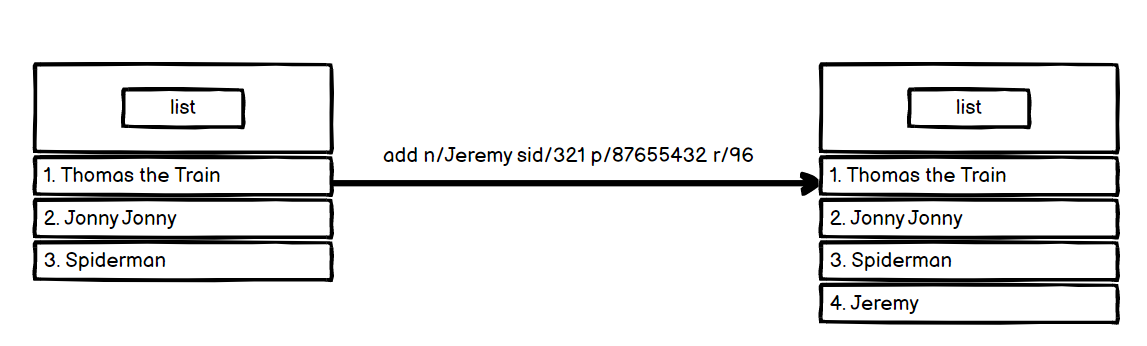
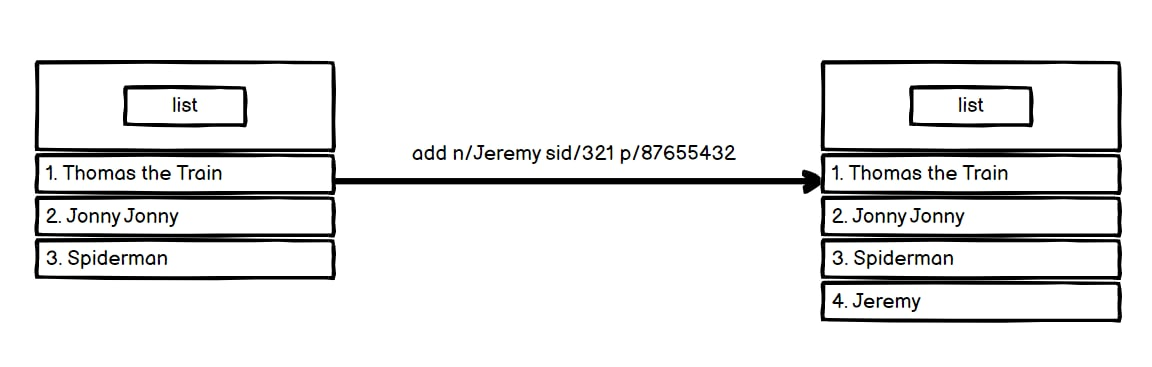
Make formatting changes for overall UG

diff --git a/docs/UserGuide.md b/docs/UserGuide.md
@@ -93,21 +93,24 @@ constraints can be found in the [parameter constraints.](#parameter-constraints-
 
 Adds a new guest or staff and their contact details into PH.
 
-Format: `add n/<NAME> pn/<PASSPORT_NUMBER> [p/<PHONE_NUMBER>] [r/<ROOM_NUMBER>]`/ `add n/<NAME> sid/<STAFF_ID> [p/<PHONE_NUMBER>] [r/<ROOM_NUMBER>]`
+Format:
+<br>Guest: `add n/<NAME> pn/<PASSPORT_NUMBER> [p/<PHONE_NUMBER>] [r/<ROOM_NUMBER>]`
+<br>Staff: `add n/<NAME> sid/<STAFF_ID> [p/<PHONE_NUMBER>]`
 
 Example 1:
-![AddDiagram](images/AddDiagram.png)
+<br>![AddDiagram](images/AddDiagram.png)
 
 * `list` command lists all contact details of people in the address book.
-* `add n/Bing Cheng pn/T0134568D p/99999999 r/69` , adds a new guest, Bing Cheng to the address book and shows the new
+* `add n/Bing Cheng pn/T0134568D p/99999999 r/69` , adds a new guest, Bing Cheng to PH and shows the new
   contact list.
 
 Example 2:
-![StaffAddDiagram](images/StaffAddDiagram.png)
+<br>![StaffAddDiagram](images/StaffAddDiagram.png)
 
 * `list` command lists all contact details of people in the address book.
-* `add n/Jeremy sid/321 p/87655432 r/96` , adds a new staff, Jeremy to the address book and shows the new
+* `add n/Jeremy sid/321 p/87655432` , adds a new staff, Jeremy to PH and shows the new
   contact list.
+
 [Back to Table of Contents](#table-of-contents)
 
 ### Editing fields of guests/staff: `edit`
@@ -123,9 +126,9 @@ Format:
 
 Examples:
 
-* `edit pn/X12345678A p/99999999` locates the guest Bing Cheng and overwrites the phone number field with the new phone
+* `edit pn/X12345678A p/99999999` locates the guest Bing Cheng, by his passport number X12345678A and overwrites the phone number field with the new phone
   number provided.
-* `edit pn/X98765432B r/123` locates the guest Jeremy and overwrites the room number field with the new room number
+* `edit pn/X98765432B r/123` locates the guest Jeremy, by his passport number X98765432B and overwrites the room number field with the new room number
   provided.
 
 [Back to Table of Contents](#table-of-contents)
@@ -134,23 +137,19 @@ Examples:
 
 Deletes an existing guest or staff using the passport number or staff ID respectively.
 
-Format: 
-
-Guest: `delete pn/<PASSPORT_NUMBER>`
-
-Staff: `delete sid/<STAFF_ID>`
+Format:
+<br>Guest: `delete pn/<PASSPORT_NUMBER>`
+<br>Staff: `delete sid/<STAFF_ID>`
 
 
 Example 1 (Delete guest):
+<br>![GuestDeleteDiagram](images/GuestDeleteDiagram.png)
 
-![GuestDeleteDiagram](images/GuestDeleteDiagram.png)
-
-* `delete pn/XNOO19390 (PASSPORT_NUMBER)`, guest, Jonny Jonny, who has passport number XNOO19390, is deleted from the system.
+* `delete pn/XNOO19390 (PASSPORT_NUMBER)`, The guest, Jonny Jonny, who has passport number XNOO19390, is deleted from the system.
 
 Example 2 (Delete staff):
-
-![StaffDeleteDiagram](images/StaffDeleteDiagram.png)
-* `delete sid/123`, staff, Thomas The Train, who has the staff ID 123, is deleted from the system.
+<br>![StaffDeleteDiagram](images/StaffDeleteDiagram.png)
+* `delete sid/123`, The staff, Thomas The Train, who has the staff ID 123, is deleted from the system.
 
 [Back to Table of Contents](#table-of-contents)
 
@@ -169,18 +168,28 @@ Format: `list`
 Views the staff or guest by their STAFF_ID or PASSPORT_NUMBER parameter. All the details associated with the 
 staff/guest will be shown in the GUI.
 
-Format: 
-
-`view pn/<PASSPORT_NUMBER>`
-
-`view sid/<STAFF_ID>`
+Format:
+<br>`view pn/<PASSPORT_NUMBER>`
+<br>`view sid/<STAFF_ID>`
 
 Example:
 
-* `view sid/123` shows the details of the staff associated with the given staff ID.
 * `view pn/X12345678A` shows the details of the guest associated with the given passport number.
+* `view sid/123` shows the details of the staff associated with the given staff ID.
 
 [Back to Table of Contents](#table-of-contents)
+
+### Exiting the program : `exit`
+
+Exits the program.
+
+Format: `exit`
+
+[Back to Table of Contents](#table-of-contents)
+
+### Archiving data files `[coming in v2.0]`
+
+_Details coming soon ..._
 
 ### Saving your Data
 
@@ -202,29 +211,17 @@ Editing the json file directly should only be done by a user experienced with .j
 
 [Back to Table of Contents](#table-of-contents)
 
-### Exiting the program : `exit`
-
-Exits the program.
-
-Format: `exit`
-
-[Back to Table of Contents](#table-of-contents)
-
-### Archiving data files `[coming in v2.0]`
-
-_Details coming soon ..._
-
 --------------------------------------------------------------------------------------------------------------------
 
 ## **Command Summary**
 
 Action | Format, Examples
 --------|------------------
-**Add** | Guest: `add n/<NAME> pn/<PASSPORT_NUMBER> [p/<PHONE_NUMBER>] [r/<ROOM_NUMBER>]` <br> Staff: `add n/<NAME> sid/<STAFF_ID> [p/<PHONE_NUMBER>] [r/<ROOM_NUMBER>]` <br> e.g., <br>`add n/Bing Cheng pn/T0134568D p/99999999 r/69` <br> `add n/Jeremy sid/321 p/87655432 r/96 `
+**Add** | Guest: `add n/<NAME> pn/<PASSPORT_NUMBER> [p/<PHONE_NUMBER>] [r/<ROOM_NUMBER>]`<br>Staff: `add n/<NAME> sid/<STAFF_ID> [p/<PHONE_NUMBER>] [r/<ROOM_NUMBER>]`<br>e.g.,<br>`add n/Bing Cheng pn/T0134568D p/99999999 r/69`<br>`add n/Jeremy sid/321 p/87655432`
 **Edit** | Guest: `edit pn/<PASSPORT_NUMBER> <FIELD_NAME>/<NEW_FIELD_DETAILS>`<br>Staff:`edit pn/<PASSPORT_NUMBER> <FIELD_NAME>/<NEW_FIELD_DETAILS>`<br>e.g.<br>`edit pn/X12345678A p/99999999`<br>`edit sid/S12345678A p/99999999`
-**Delete** | Guest: `delete pn/<PASSPORT_NUMBER>`<br>Staff: `delete sid/<STAFF_ID>`<br> e.g.,<br>`delete pn/XNOO19390`<br>`delete sid/321`
+**Delete** | Guest: `delete pn/<PASSPORT_NUMBER>`<br>Staff: `delete sid/<STAFF_ID>`<br>e.g.,<br>`delete pn/XNOO19390`<br>`delete sid/321`
 **List** | `list`
-**View** | Guest: `view pn/<PASSPORT_NUMBER>`<br>Staff: `view sid/<STAFF_ID>`<br> e.g.,<br>`view pn/X12345678A`<br>`view sid/123`
+**View** | Guest: `view pn/<PASSPORT_NUMBER>`<br>Staff: `view sid/<STAFF_ID>`<br>e.g.,<br>`view pn/X12345678A`<br>`view sid/123`
 **Exit** | `exit`
 
 [Back to Table of Contents](#table-of-contents)
